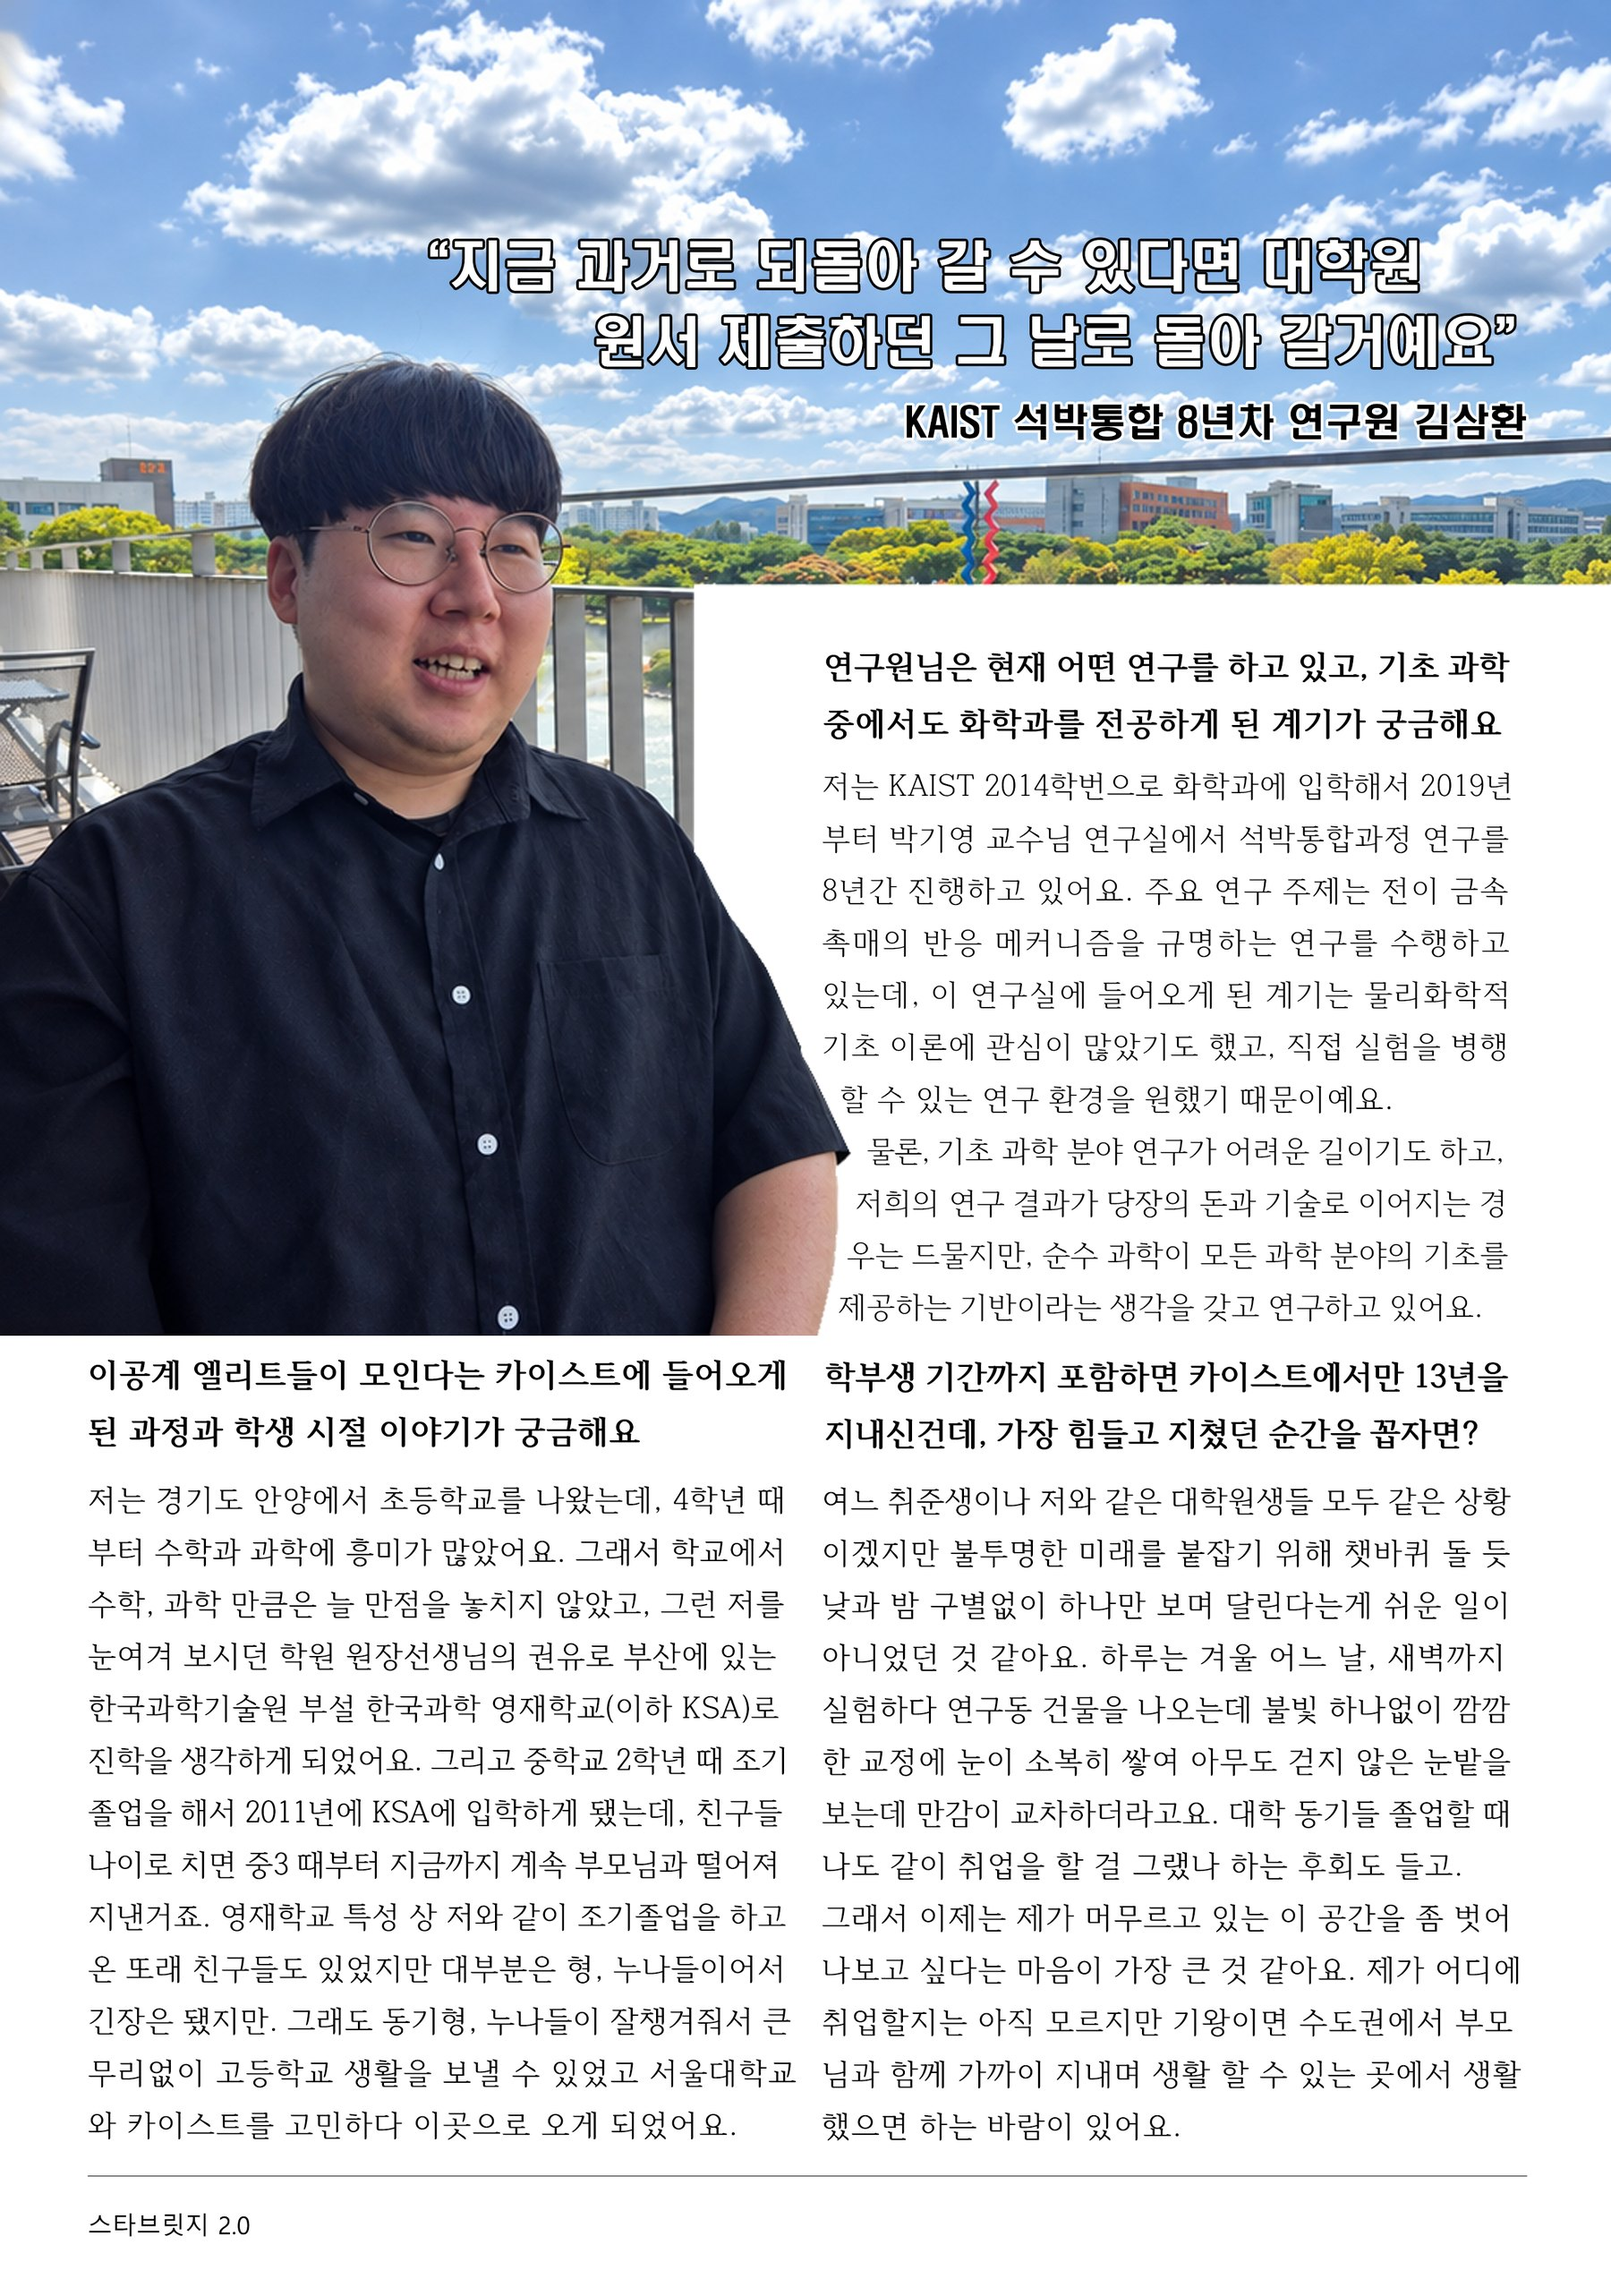
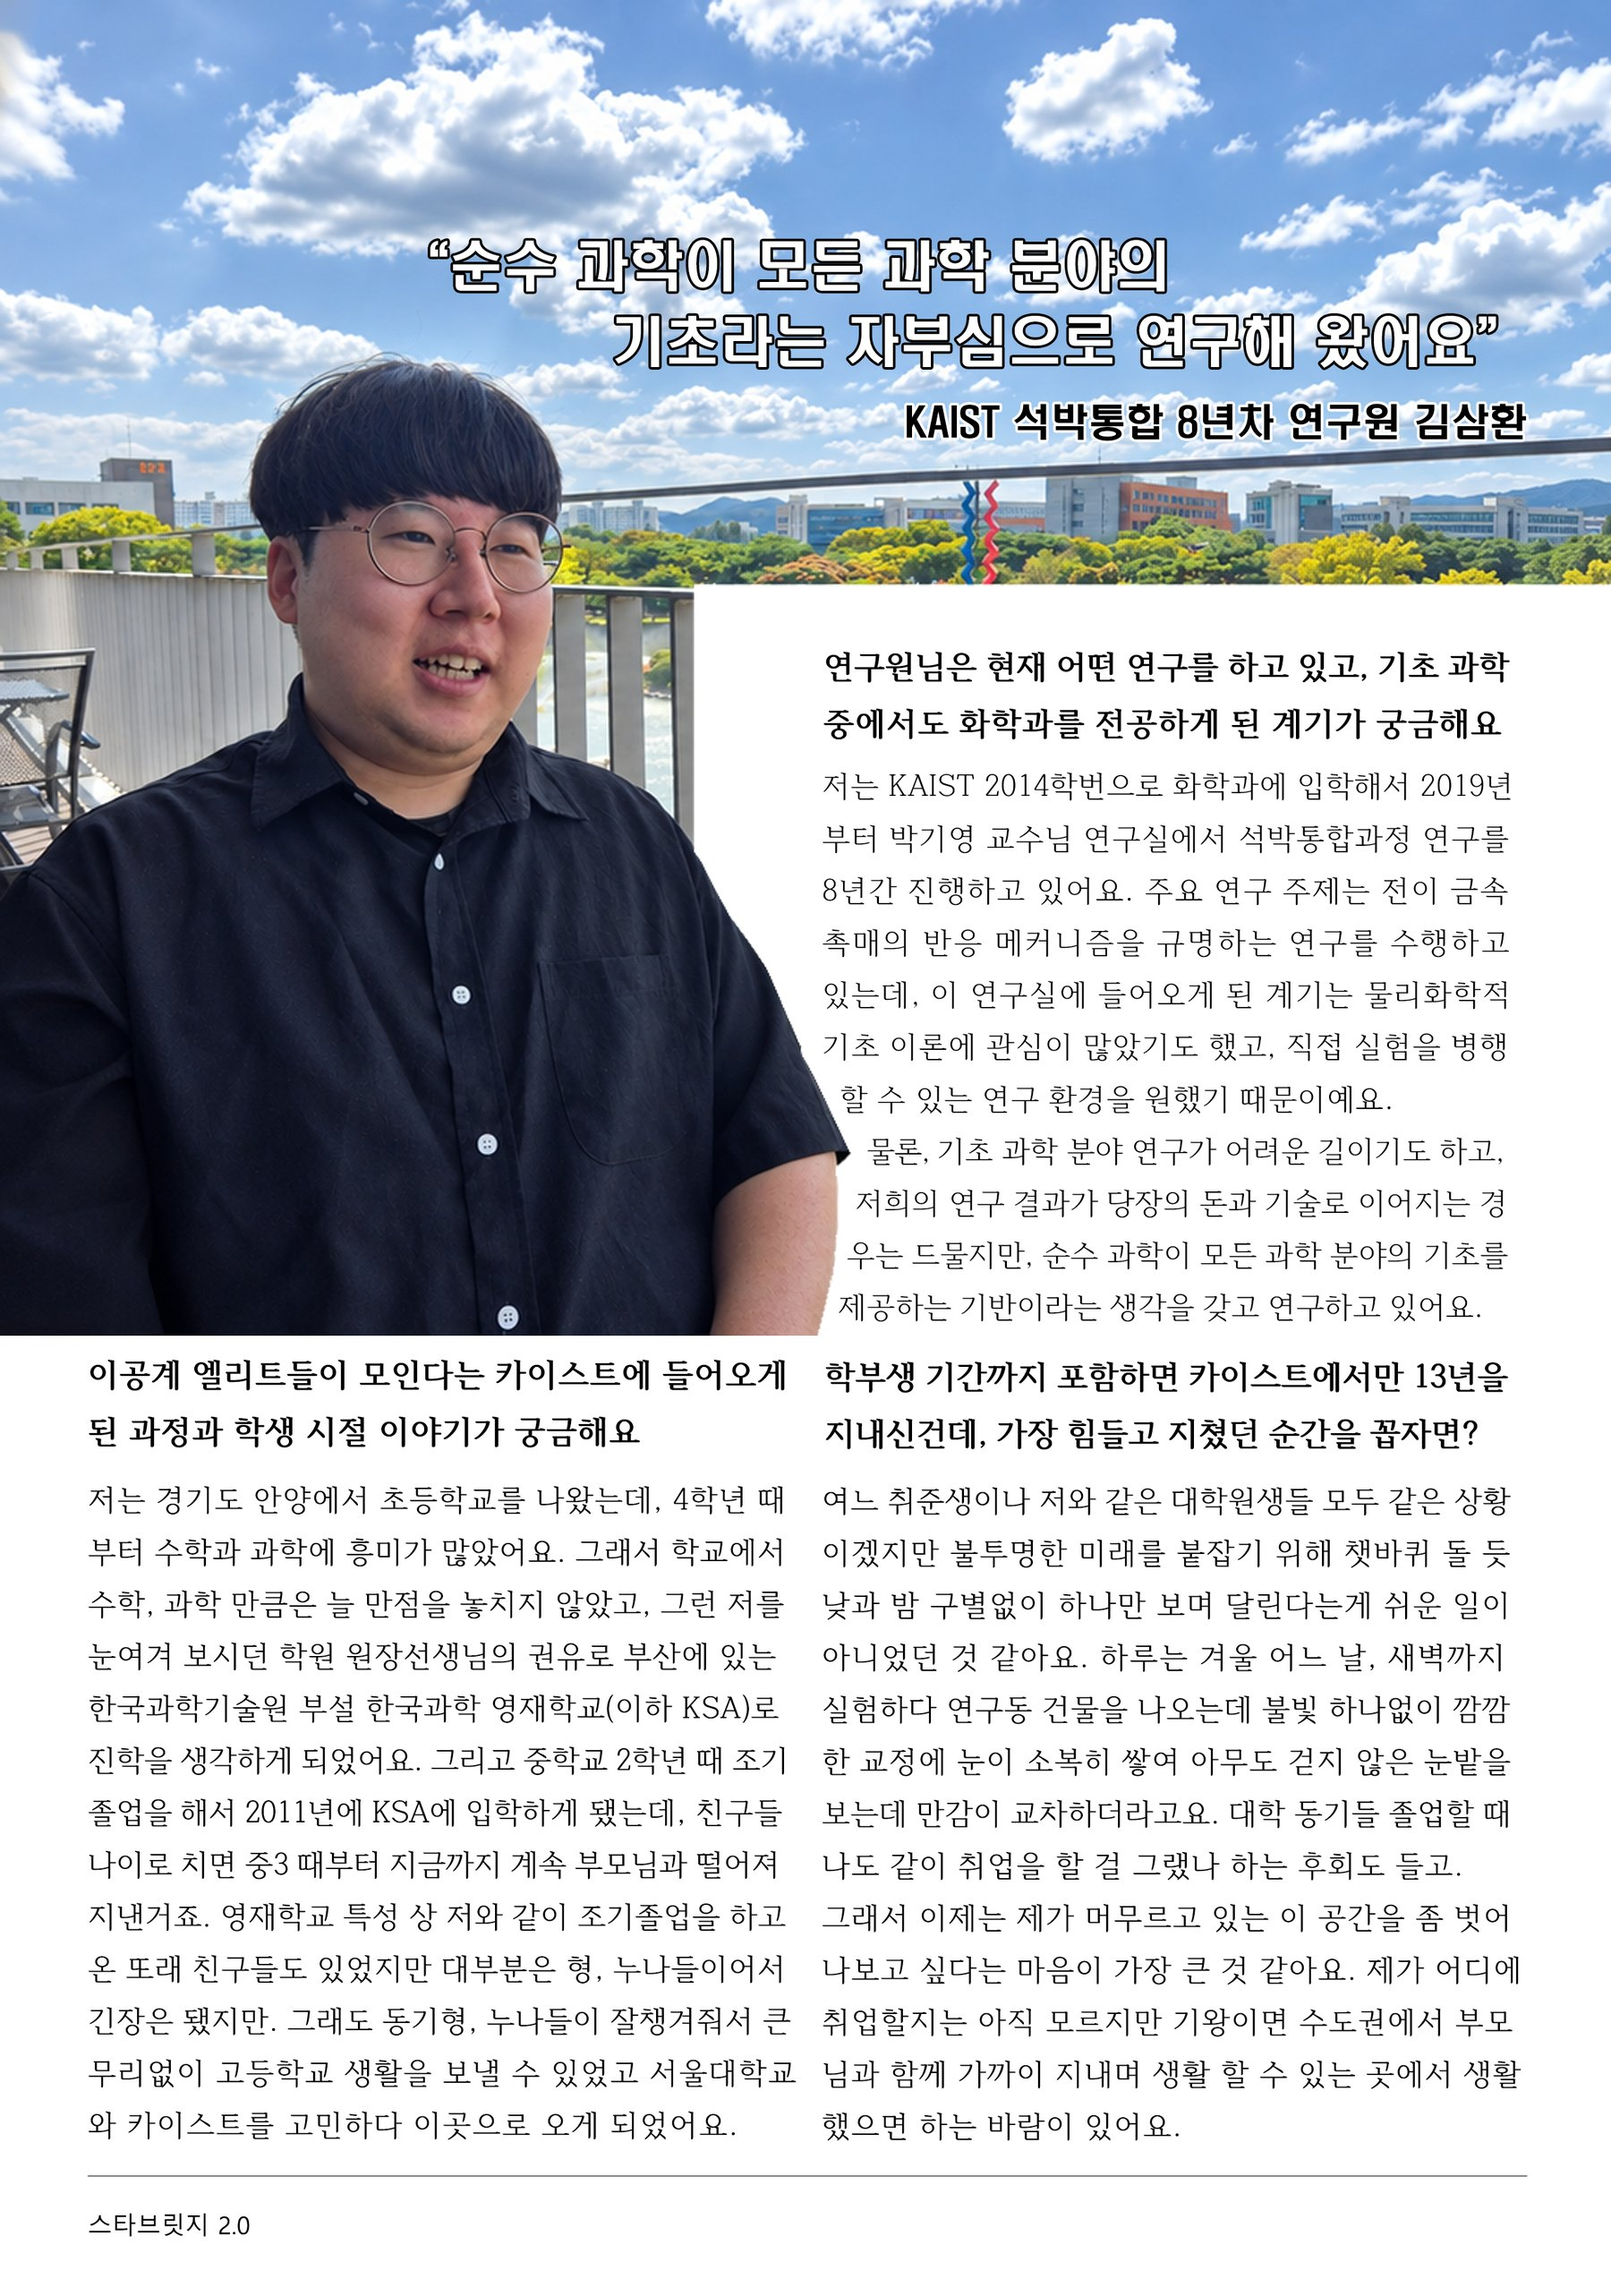
feat: 인터뷰 첫 지면을 새 제목 지면으로 교체
- 김삼환 연구원 인터뷰 지면을 '순수 과학이 모든 과학 분야의 기초라는 자부심으로 연구해 왔어요' 제목판으로 교체

Changed region(s): [[0.3733, 0.0931, 0.9333, 0.1862], [0.28, 0.0931, 0.3422, 0.1551]]

diff --git a/index.html b/index.html
@@ -489,7 +489,7 @@
         <!-- 화학과 연구원 인터뷰: 아래 .iv-src 안에 지면 그림을 넘길 순서대로 넣으면 '‹ 1 / N ›'으로 넘겨 봄 -->
         <section id="view-cprl-interview" class="content-view">
           <div class="iv-src">
-            <img src="image/cprl_interview_kim.jpg" alt="KAIST 석박통합 8년차 연구원 김삼환 인터뷰 지면. 제목: 지금 과거로 되돌아 갈 수 있다면 대학원 원서 제출하던 그 날로 돌아 갈거예요. 화학과를 전공하게 된 계기와 현재 연구(전이 금속 촉매의 반응 메커니즘), 한국과학영재학교를 거쳐 카이스트에 온 과정, 대학원 생활에서 가장 힘들었던 순간에 대한 문답." data-title="KAIST 석박통합 8년차 연구원 김삼환">
+            <img src="image/cprl_interview_kim.jpg?v=2" alt="KAIST 석박통합 8년차 연구원 김삼환 인터뷰 지면. 제목: 순수 과학이 모든 과학 분야의 기초라는 자부심으로 연구해 왔어요. 화학과를 전공하게 된 계기와 현재 연구(전이 금속 촉매의 반응 메커니즘), 한국과학영재학교를 거쳐 카이스트에 온 과정, 대학원 생활에서 가장 힘들었던 순간에 대한 문답." data-title="KAIST 석박통합 8년차 연구원 김삼환">
           </div>
           <div class="iv"></div>
         </section>
